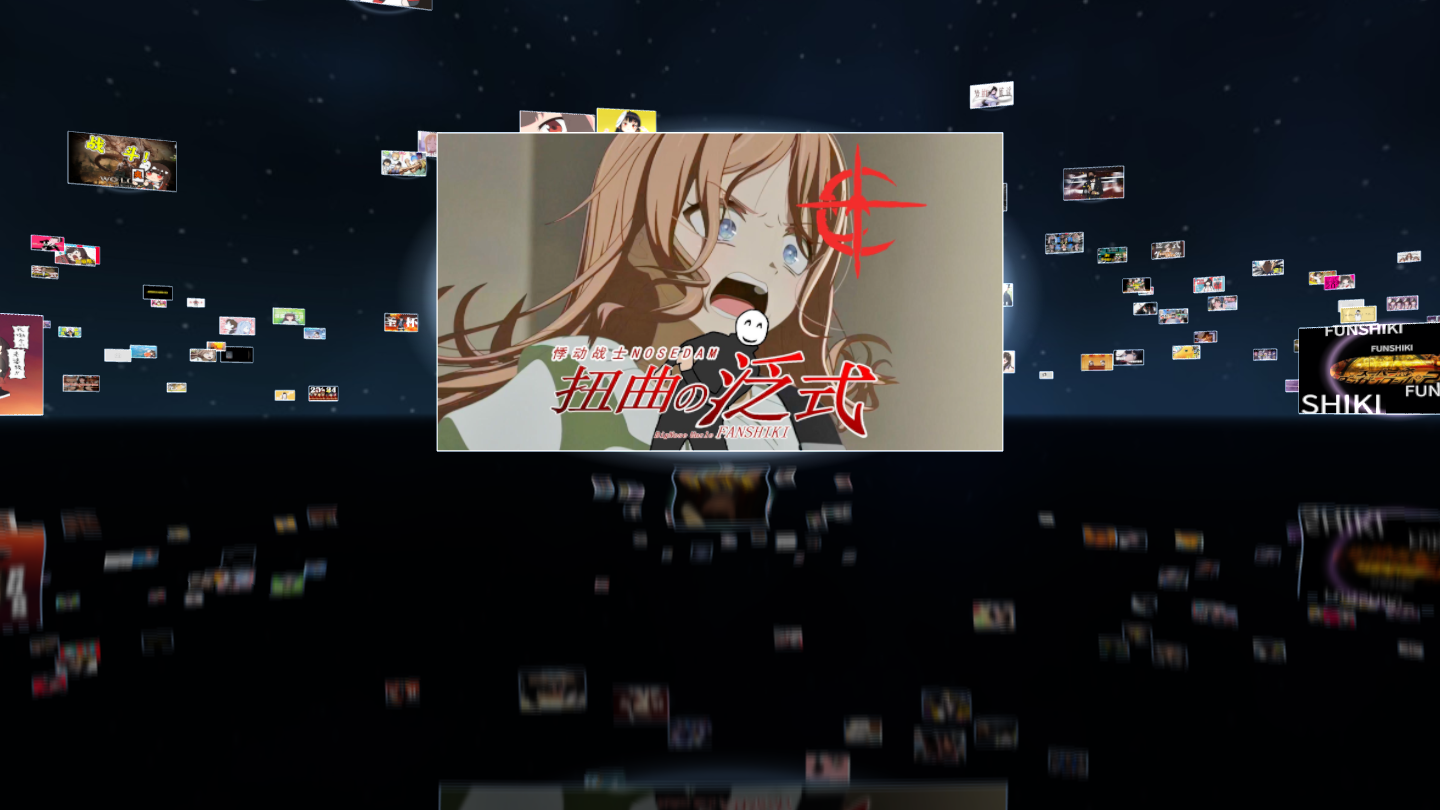
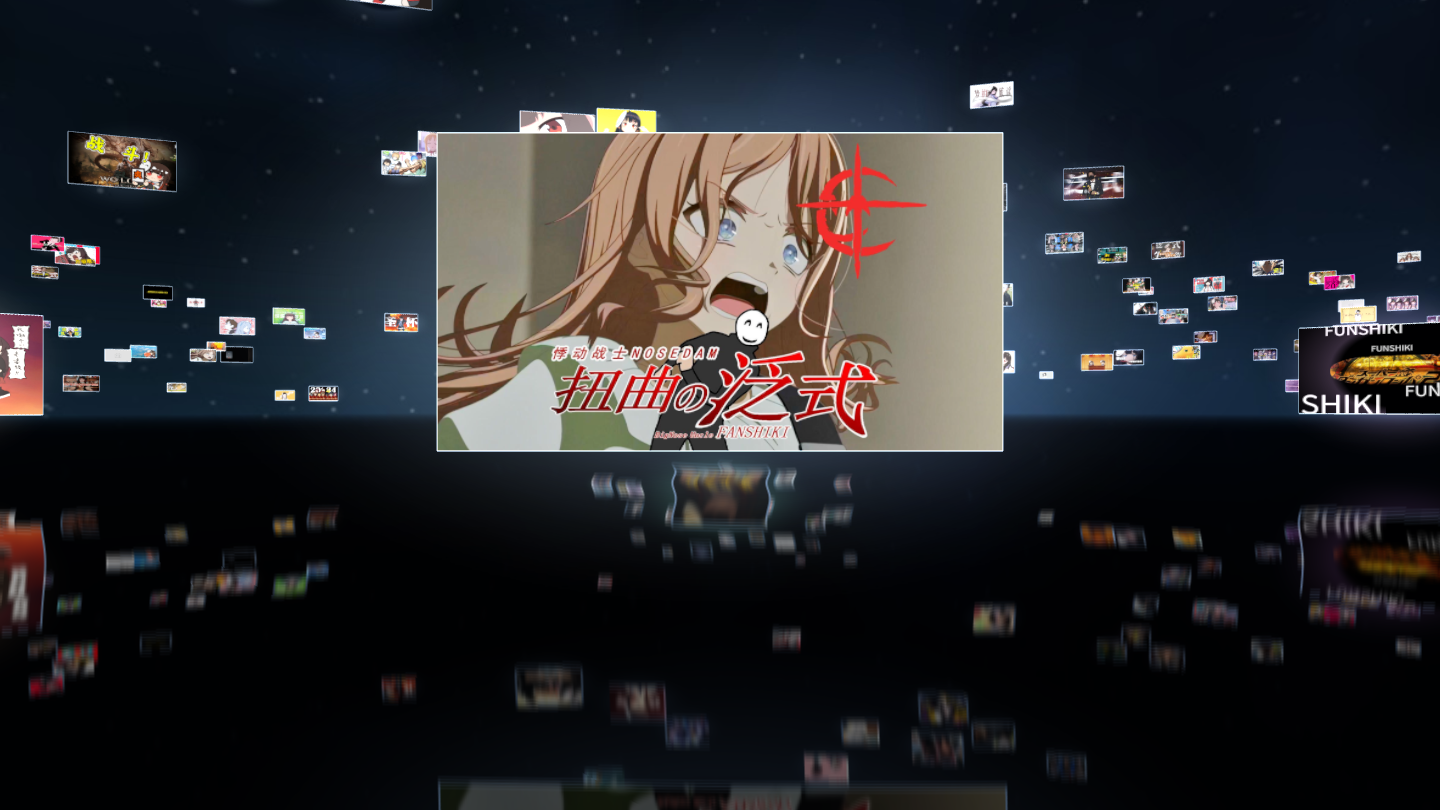
fix: 辉光从可见光环改成柔和长尾
上一次把渐变峰値削得太尖（0.76 处 0.06 直接跳到 0.85 处 0.85），
远处看是一圈明确的椭圆光带 —— 像甜甜圈，不像辉光。

改成 sprite 取 2 倍、峰値只给 0.50、后面接一条长尾巴（0.62/0.32、0.78/0.13、0.90/0.04）。
峰値仍然对齐在画框边缘（N=2 时 UV 半径 0.5 正好是画框边），只是不再尖锐。

交付截图同步重拍。

diff --git a/viewer/space.js b/viewer/space.js
@@ -124,10 +124,12 @@ const HALO = (() => {
   const g = c.getContext('2d');
   const grd = g.createRadialGradient(S / 2, S / 2, 0, S / 2, S / 2, S / 2);
   grd.addColorStop(0.00, 'rgba(255,255,255,0)');
-  grd.addColorStop(0.62, 'rgba(255,255,255,0)');
-  grd.addColorStop(0.76, 'rgba(255,255,255,0.06)');
-  grd.addColorStop(0.85, 'rgba(255,255,255,0.85)');
-  grd.addColorStop(0.92, 'rgba(255,255,255,0.22)');
+  grd.addColorStop(0.00, 'rgba(255,255,255,0)');
+  grd.addColorStop(0.42, 'rgba(255,255,255,0)');
+  grd.addColorStop(0.50, 'rgba(255,255,255,0.50)');
+  grd.addColorStop(0.62, 'rgba(255,255,255,0.32)');
+  grd.addColorStop(0.78, 'rgba(255,255,255,0.13)');
+  grd.addColorStop(0.90, 'rgba(255,255,255,0.04)');
   grd.addColorStop(1.00, 'rgba(255,255,255,0)');
   g.fillStyle = grd;
   g.fillRect(0, 0, S, S);
@@ -195,7 +197,7 @@ gltf.scene.traverse((o) => {
   // 几何对齐：sprite 取 1.28 倍画框时，画框边缘恰好落在 UV 半径 1/1.28 ≈ 0.78 处，
   // 所以贴图的峰値必须放在 0.80（而不是 0.5）。放 0.5 的话峰值藏在画框背后被遮住，
   // 能看见的只有外围长尾巴 —— 那会看起来像背景渐变，不像光晕。
-  const factors = (q.get("halo") === "0") ? [] : (hero ? [[1.18, 0.82]] : [[1.16, 0.32]]);
+  const factors = (q.get("halo") === "0") ? [] : (hero ? [[2.0, 0.55]] : [[1.9, 0.22]]);
   normal.copy(PLANE_FRONT).applyQuaternion(mesh.getWorldQuaternion(tmpQ));
 
   const tint = new THREE.Color().setHSL(info.hue / 360, 0.42, 0.74, THREE.SRGBColorSpace);
